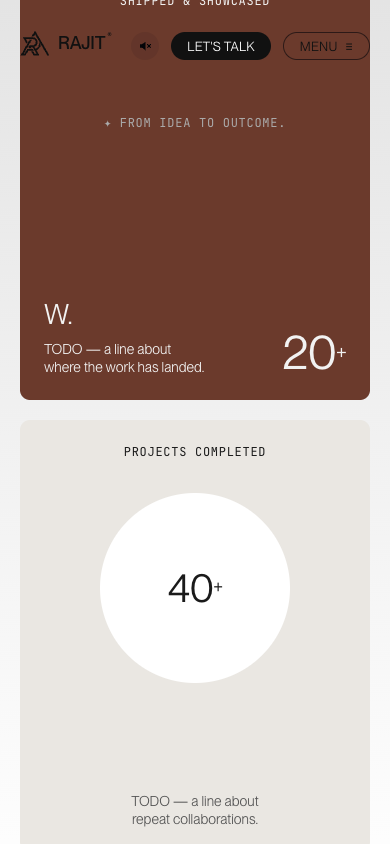
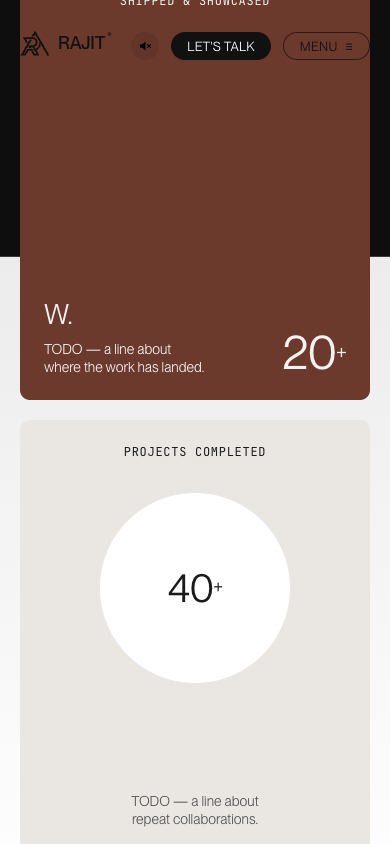
wipe: lock the whole dark chapter during the fill, not just the marquee
Holding only the marquee section left the symbol sliding out from under
frozen words. The mark lives in the sticky canvas layer inside
DarkChapters, and that layer reaches the end of its container partway
through the fill and starts unsticking -- so it was still moving while the
text above it stood still.

The counter-translate now applies to the whole DarkChapters wrapper. Key
facts moves over the dark chapter; the dark chapter does not move at all.

I had avoided transforming the wrapper on the theory that it would become
the containing block for the sticky canvas inside it. Measured instead of
assumed: the canvas holds at y=0 throughout, so sticky still resolves
correctly under the transform.

Verified every element of the dark run is locked from t=0 to t=2.2:

  marquee words   y=424   constant
  canvas / mark   y=0     constant
  caption         y=809   constant

all releasing together afterwards, and the release stays invisible -- zero
dark rows in the viewport at t=2.2 / 2.3 / 2.5 / 2.9 / 3.4.

diff --git a/src/components/home/ChapterWipe.tsx b/src/components/home/ChapterWipe.tsx
@@ -83,11 +83,14 @@ export function ChapterWipe() {
     const bands = Array.from(l.querySelectorAll<HTMLElement>(".cw-band")).reverse();
     const headings = document.querySelector<HTMLElement>(".kf-headings");
     const cards = Array.from(document.querySelectorAll<HTMLElement>(".kf-card"));
-    // The marquee is the last section of the dark run, immediately before this
-    // component in the document.
-    const darkSections = a.previousElementSibling?.querySelectorAll("section");
-    const marquee = darkSections?.[darkSections.length - 1] as HTMLElement | undefined;
-    if (!headings || !cards.length || !marquee) return;
+    // The whole dark run, not just its last section. The mark lives in the
+    // sticky canvas layer inside this wrapper, and that layer reaches the end
+    // of its container partway through the fill and starts unsticking — so
+    // holding the marquee section alone left the symbol sliding out from under
+    // frozen words. Key facts moves over the dark chapter; the dark chapter
+    // does not move at all.
+    const dark = a.previousElementSibling as HTMLElement | null;
+    if (!headings || !cards.length || !dark) return;
 
     const ctx = gsap.context(() => {
       /*
@@ -142,7 +145,7 @@ export function ChapterWipe() {
        */
       const fillEnd = BAND_STEP * (BANDS - 1) + BAND_FILL; // 2.2
       tl.to(
-        marquee,
+        dark,
         {
           y: () => ((end() - start()) * fillEnd) / TOTAL,
           duration: fillEnd,
